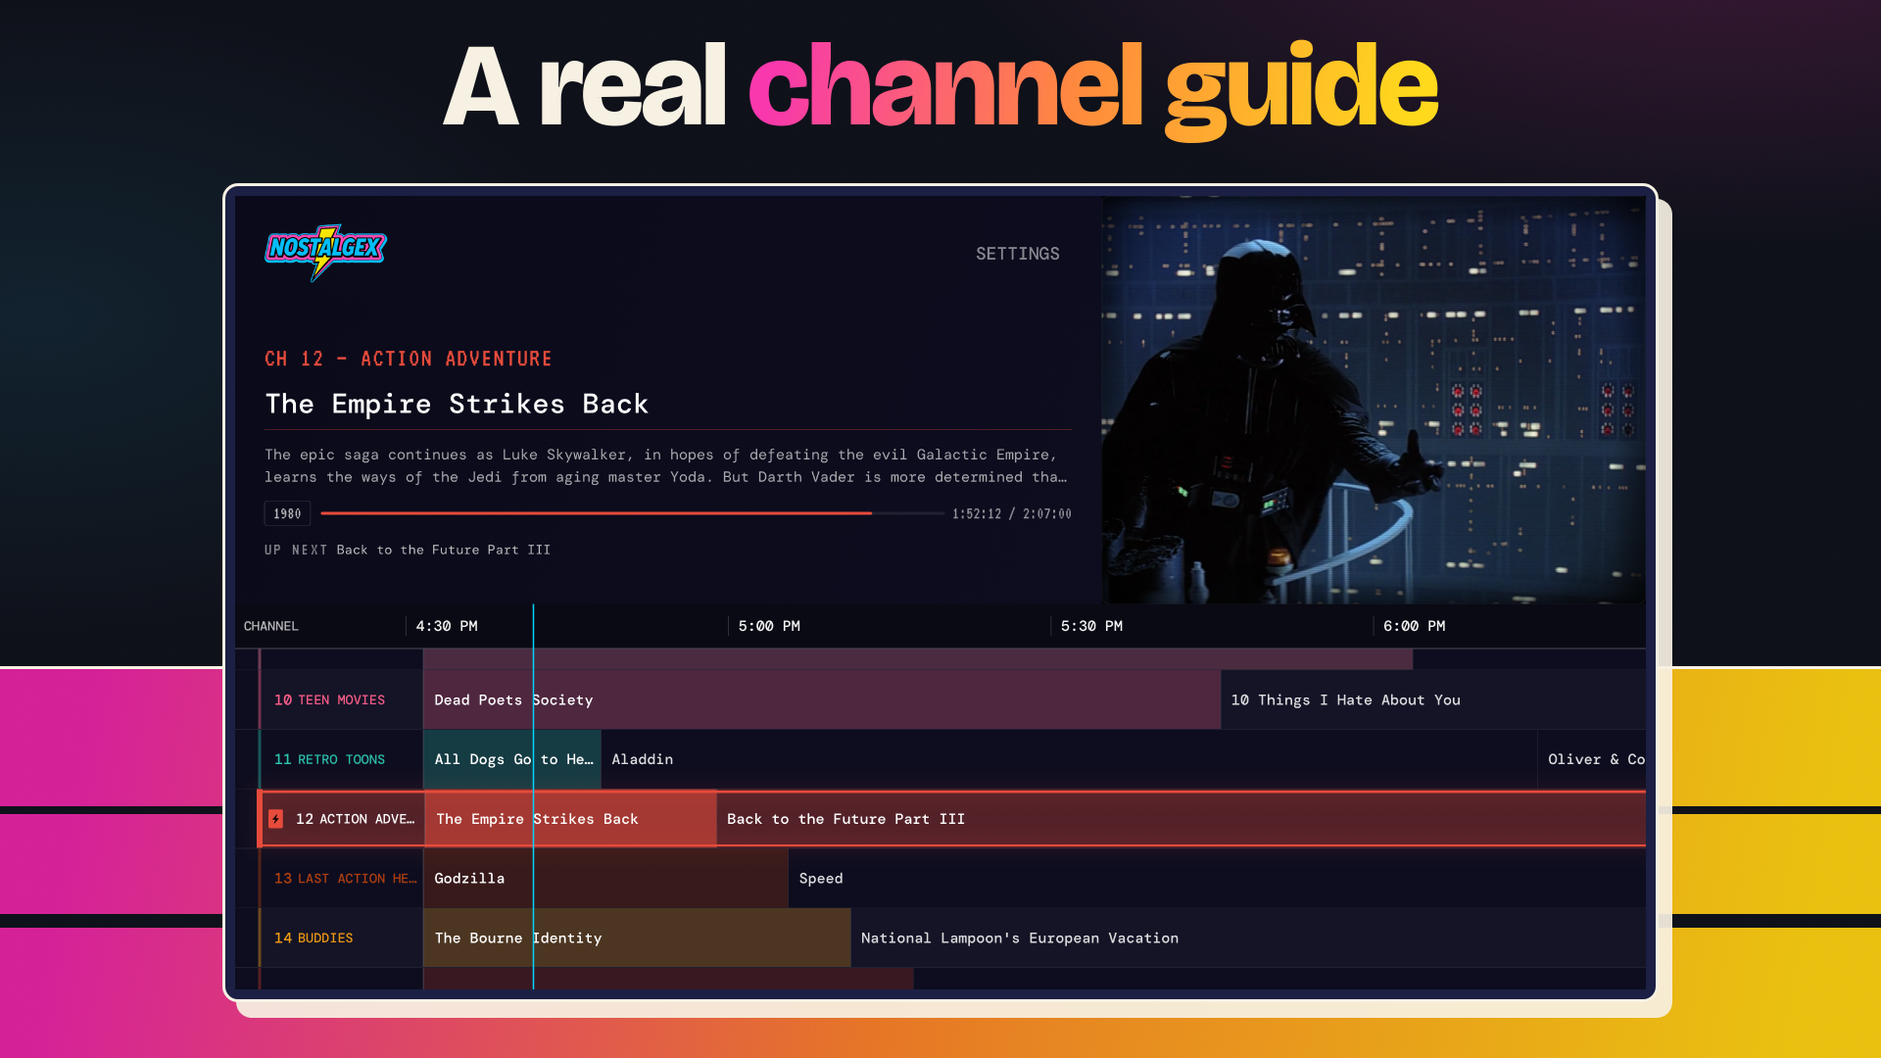
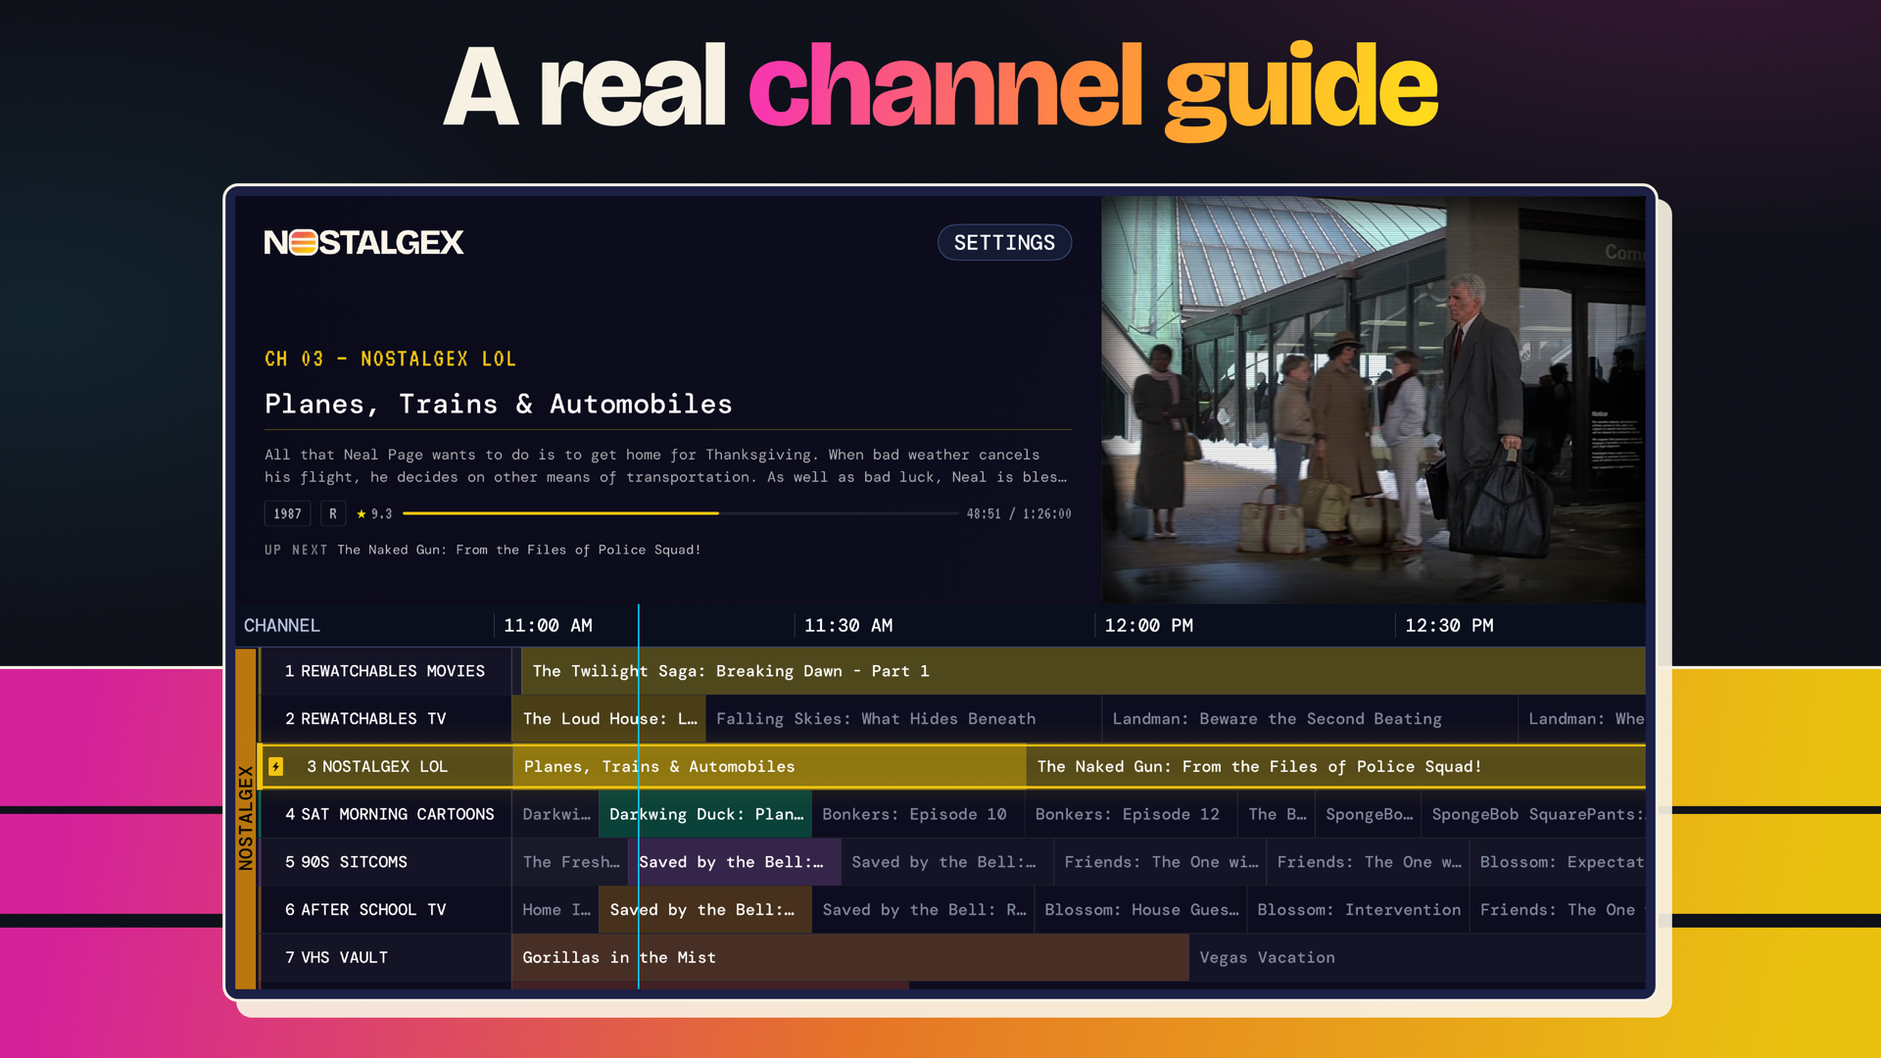
Site: new branding for the 1.0.32 release. New composites in the Apple TV, Plex, Jellyfin and Emby pages, README image, new OG image and email wordmark, old bolt assets gone (hero film and blog images pending)

diff --git a/index.html b/index.html
@@ -16,7 +16,7 @@
 <meta property="og:type" content="website">
 <meta property="og:url" content="https://www.nostalgex.app/">
 <meta property="og:site_name" content="Nostalgex">
-<meta property="og:image" content="https://www.nostalgex.app/og-image-1200.png">
+<meta property="og:image" content="https://www.nostalgex.app/og-site-1200.png">
 <meta property="og:image:width" content="1200">
 <meta property="og:image:height" content="630">
 <meta property="og:image:alt" content="The Nostalgex channel guide: a grid of live channels built from your own library">
@@ -25,7 +25,7 @@
 <meta name="twitter:card" content="summary_large_image">
 <meta name="twitter:title" content="Nostalgex for Apple TV: Live Channels for Plex, Jellyfin, Emby">
 <meta name="twitter:description" content="Turn your Plex, Jellyfin or Emby library into 130+ live channels with a retro TV guide. Free and open source on Apple TV and Roku, plus a free web tuner.">
-<meta name="twitter:image" content="https://www.nostalgex.app/og-image-1200.png">
+<meta name="twitter:image" content="https://www.nostalgex.app/og-site-1200.png">
 
 <script>
   /* Theme boot — runs before first paint so there's no flash on reload.
@@ -94,7 +94,7 @@
       "applicationCategory": "MultimediaApplication",
       "operatingSystem": "tvOS 18.0 or later",
       "description": "A free, open source Apple TV app that turns your Plex, Jellyfin or Emby library into 130+ live channels in 14 bundles, with a retro TV guide.",
-      "image": "https://www.nostalgex.app/og-image-1200.png",
+      "image": "https://www.nostalgex.app/og-site-1200.png",
       "downloadUrl": "https://apps.apple.com/app/nostalgex/id6762563534",
       "installUrl": "https://apps.apple.com/app/nostalgex/id6762563534",
       "isAccessibleForFree": true,
@@ -408,7 +408,7 @@
             </ul>
           </div>
           <figure class="shot shot-flat reveal delay-1">
-            <img src="/screens/lineup-1920.webp" srcset="/screens/lineup-1280.webp 1280w, /screens/lineup-1920.webp 1920w, /screens/lineup.webp 3840w" sizes="(min-width: 1100px) 640px, 92vw" alt="The Nostalgex guide grid: The Brave Little Toaster airing on Action Adventure, with Retro Toons, Teen Movies, and Family Hour in the lineup" width="3840" height="2160" loading="lazy" decoding="async">
+            <img src="/screens/atv-01-1920.webp" srcset="/screens/atv-01-1280.webp 1280w, /screens/atv-01-1920.webp 1920w, /screens/atv-01.webp 3840w" sizes="(min-width: 1100px) 640px, 92vw" alt="The Nostalgex channel guide on Apple TV: a grid of channels with what is on now and what is next, and a bundle stripe down the left edge" width="3840" height="2160" loading="lazy" decoding="async">
           </figure>
         </div>
       </div>
@@ -756,7 +756,7 @@
         <div class="surf-grid">
           <figure class="shot shot-tilt-l reveal">
             <span class="sticker sticker-pink" aria-hidden="true">FLIP IT</span>
-            <img src="/screens/player-1920.webp" srcset="/screens/player-1280.webp 1280w, /screens/player-1920.webp 1920w, /screens/player.webp 3840w" sizes="(min-width: 1100px) 640px, 92vw" alt="Watching Black Sheep fullscreen in Nostalgex, flipping through channels with the on-screen channel row" width="3840" height="2160" loading="lazy" decoding="async">
+            <img src="/screens/atv-04-1920.webp" srcset="/screens/atv-04-1280.webp 1280w, /screens/atv-04-1920.webp 1920w, /screens/atv-04.webp 3840w" sizes="(min-width: 1100px) 640px, 92vw" alt="Tuning in to a movie already in progress on Apple TV, with the channel and title in the corner like cable TV" width="3840" height="2160" loading="lazy" decoding="async">
           </figure>
           <div class="surf-copy reveal delay-1">
             <h2>Flip up. Flip down. Land on something great.</h2>

diff --git a/apple-tv.html b/apple-tv.html
@@ -16,7 +16,7 @@
 <meta property="og:type" content="website">
 <meta property="og:url" content="https://www.nostalgex.app/apple-tv">
 <meta property="og:site_name" content="Nostalgex">
-<meta property="og:image" content="https://www.nostalgex.app/og-image-1200.png">
+<meta property="og:image" content="https://www.nostalgex.app/og-site-1200.png">
 <meta property="og:image:width" content="1200">
 <meta property="og:image:height" content="630">
 <meta property="og:image:alt" content="The Nostalgex channel guide: a grid of live channels built from your own library">
@@ -25,7 +25,7 @@
 <meta name="twitter:card" content="summary_large_image">
 <meta name="twitter:title" content="Nostalgex for Apple TV | Retro channel guide for Plex, Jellyfin and Emby">
 <meta name="twitter:description" content="Turn your Plex, Jellyfin or Emby library into 130+ retro TV channels on Apple TV. Sign in and start flipping. Free on the App Store.">
-<meta name="twitter:image" content="https://www.nostalgex.app/og-image-1200.png">
+<meta name="twitter:image" content="https://www.nostalgex.app/og-site-1200.png">
 
 <script>
   /* Theme boot, runs before first paint so there's no flash on reload. */
@@ -311,7 +311,7 @@
           </div>
           <div class="reveal delay-1">
             <figure class="shot shot-tilt-l">
-              <img src="/screens/player-1920.webp" srcset="/screens/player-1280.webp 1280w, /screens/player-1920.webp 1920w, /screens/player.webp 3840w" sizes="(min-width: 1100px) 640px, 92vw" alt="Watching Black Sheep full screen in Nostalgex on Apple TV, with the channel strip along the bottom" width="3840" height="2160" loading="lazy" decoding="async">
+              <img src="/screens/atv-04-1920.webp" srcset="/screens/atv-04-1280.webp 1280w, /screens/atv-04-1920.webp 1920w, /screens/atv-04.webp 3840w" sizes="(min-width: 1100px) 640px, 92vw" alt="Tuning in to a movie already in progress on Apple TV, with the channel and title in the corner like cable TV" width="3840" height="2160" loading="lazy" decoding="async">
             </figure>
           </div>
         </div>
@@ -331,7 +331,7 @@
           </div>
           <div class="reveal delay-1">
             <figure class="shot shot-tilt-r">
-              <img src="/screens/lineup-1920.webp" srcset="/screens/lineup-1280.webp 1280w, /screens/lineup-1920.webp 1920w, /screens/lineup.webp 3840w" sizes="(min-width: 1100px) 560px, 92vw" alt="The Nostalgex guide on Apple TV: The Empire Strikes Back airing on ACTION ADVENTURE, with TEEN MOVIES, RETRO TOONS and LAST ACTION HEROES in the lineup" width="3840" height="2160" loading="lazy" decoding="async">
+              <img src="/screens/atv-02-1920.webp" srcset="/screens/atv-02-1280.webp 1280w, /screens/atv-02-1920.webp 1920w, /screens/atv-02.webp 3840w" sizes="(min-width: 1100px) 560px, 92vw" alt="The Nostalgex guide on Apple TV with a fresh lineup across Saturday morning cartoons, 90s sitcoms and after school TV" width="3840" height="2160" loading="lazy" decoding="async">
             </figure>
           </div>
         </div>

diff --git a/jellyfin.html b/jellyfin.html
@@ -16,7 +16,7 @@
 <meta property="og:type" content="website">
 <meta property="og:url" content="https://www.nostalgex.app/jellyfin">
 <meta property="og:site_name" content="Nostalgex">
-<meta property="og:image" content="https://www.nostalgex.app/og-image-1200.png">
+<meta property="og:image" content="https://www.nostalgex.app/og-site-1200.png">
 <meta property="og:image:width" content="1200">
 <meta property="og:image:height" content="630">
 <meta property="og:image:alt" content="The Nostalgex channel guide: a grid of live channels built from your own library">
@@ -25,7 +25,7 @@
 <meta name="twitter:card" content="summary_large_image">
 <meta name="twitter:title" content="Nostalgex for Jellyfin: Live TV Channels on Apple TV">
 <meta name="twitter:description" content="Turn your Jellyfin library into 130+ live channels with a retro TV guide on Apple TV. Sign in with Quick Connect. Free and open source, nothing to install.">
-<meta name="twitter:image" content="https://www.nostalgex.app/og-image-1200.png">
+<meta name="twitter:image" content="https://www.nostalgex.app/og-site-1200.png">
 
 <script>
   /* Theme boot, runs before first paint so there's no flash on reload. */
@@ -100,7 +100,7 @@
       "applicationCategory": "MultimediaApplication",
       "operatingSystem": "tvOS 18.0 or later",
       "description": "A free, open source Apple TV app that turns your Plex, Jellyfin or Emby library into 130+ live channels in 14 bundles, with a retro TV guide.",
-      "image": "https://www.nostalgex.app/og-image-1200.png",
+      "image": "https://www.nostalgex.app/og-site-1200.png",
       "downloadUrl": "https://apps.apple.com/app/nostalgex/id6762563534",
       "installUrl": "https://apps.apple.com/app/nostalgex/id6762563534",
       "isAccessibleForFree": true,
@@ -378,7 +378,7 @@
           </div>
           <div class="reveal delay-1">
             <figure class="shot shot-tilt-l">
-              <img src="/screens/guide-1920.webp" srcset="/screens/guide-1280.webp 1280w, /screens/guide-1920.webp 1920w, /screens/guide.webp 3840w" sizes="(min-width: 1100px) 640px, 92vw" alt="A full Nostalgex channel guide with a grid of channels and what is airing on each" width="3840" height="2160" loading="lazy" decoding="async">
+              <img src="/screens/atv-03-1920.webp" srcset="/screens/atv-03-1280.webp 1280w, /screens/atv-03-1920.webp 1920w, /screens/atv-03.webp 3840w" sizes="(min-width: 1100px) 640px, 92vw" alt="The Nostalgex guide on Apple TV, the same channel lineup built from a Plex, Jellyfin or Emby library" width="3840" height="2160" loading="lazy" decoding="async">
             </figure>
           </div>
         </div>

diff --git a/plex.html b/plex.html
@@ -16,7 +16,7 @@
 <meta property="og:type" content="website">
 <meta property="og:url" content="https://www.nostalgex.app/plex">
 <meta property="og:site_name" content="Nostalgex">
-<meta property="og:image" content="https://www.nostalgex.app/og-image-1200.png">
+<meta property="og:image" content="https://www.nostalgex.app/og-site-1200.png">
 <meta property="og:image:width" content="1200">
 <meta property="og:image:height" content="630">
 <meta property="og:image:alt" content="The Nostalgex channel guide: a grid of live channels built from your own library">
@@ -25,7 +25,7 @@
 <meta name="twitter:card" content="summary_large_image">
 <meta name="twitter:title" content="Nostalgex for Plex: Live TV Channels on Apple TV">
 <meta name="twitter:description" content="Turn your Plex library into 130+ live channels with a retro TV guide on Apple TV. Sign in with a code at plex.tv/link. Free, open source, no Plex Pass.">
-<meta name="twitter:image" content="https://www.nostalgex.app/og-image-1200.png">
+<meta name="twitter:image" content="https://www.nostalgex.app/og-site-1200.png">
 
 <script>
   /* Theme boot, runs before first paint so there's no flash on reload. */
@@ -100,7 +100,7 @@
       "applicationCategory": "MultimediaApplication",
       "operatingSystem": "tvOS 18.0 or later",
       "description": "A free, open source Apple TV app that turns your Plex, Jellyfin or Emby library into 130+ live channels in 14 bundles, with a retro TV guide.",
-      "image": "https://www.nostalgex.app/og-image-1200.png",
+      "image": "https://www.nostalgex.app/og-site-1200.png",
       "downloadUrl": "https://apps.apple.com/app/nostalgex/id6762563534",
       "installUrl": "https://apps.apple.com/app/nostalgex/id6762563534",
       "isAccessibleForFree": true,
@@ -378,7 +378,7 @@
           </div>
           <div class="reveal delay-1">
             <figure class="shot shot-tilt-l">
-              <img src="/screens/guide-1920.webp" srcset="/screens/guide-1280.webp 1280w, /screens/guide-1920.webp 1920w, /screens/guide.webp 3840w" sizes="(min-width: 1100px) 640px, 92vw" alt="A full Nostalgex channel guide with a grid of channels and what is airing on each" width="3840" height="2160" loading="lazy" decoding="async">
+              <img src="/screens/atv-03-1920.webp" srcset="/screens/atv-03-1280.webp 1280w, /screens/atv-03-1920.webp 1920w, /screens/atv-03.webp 3840w" sizes="(min-width: 1100px) 640px, 92vw" alt="The Nostalgex guide on Apple TV, the same channel lineup built from a Plex, Jellyfin or Emby library" width="3840" height="2160" loading="lazy" decoding="async">
             </figure>
           </div>
         </div>

diff --git a/emby.html b/emby.html
@@ -16,7 +16,7 @@
 <meta property="og:type" content="website">
 <meta property="og:url" content="https://www.nostalgex.app/emby">
 <meta property="og:site_name" content="Nostalgex">
-<meta property="og:image" content="https://www.nostalgex.app/og-image-1200.png">
+<meta property="og:image" content="https://www.nostalgex.app/og-site-1200.png">
 <meta property="og:image:width" content="1200">
 <meta property="og:image:height" content="630">
 <meta property="og:image:alt" content="The Nostalgex channel guide: a grid of live channels built from your own library">
@@ -25,7 +25,7 @@
 <meta name="twitter:card" content="summary_large_image">
 <meta name="twitter:title" content="Nostalgex for Emby: Live TV Channels on Apple TV">
 <meta name="twitter:description" content="Turn your Emby library into 130+ live channels with a retro TV guide on Apple TV. Sign in with your Emby username and password. Free and open source.">
-<meta name="twitter:image" content="https://www.nostalgex.app/og-image-1200.png">
+<meta name="twitter:image" content="https://www.nostalgex.app/og-site-1200.png">
 
 <script>
   /* Theme boot, runs before first paint so there's no flash on reload. */
@@ -100,7 +100,7 @@
       "applicationCategory": "MultimediaApplication",
       "operatingSystem": "tvOS 18.0 or later",
       "description": "A free, open source Apple TV app that turns your Plex, Jellyfin or Emby library into 130+ live channels in 14 bundles, with a retro TV guide.",
-      "image": "https://www.nostalgex.app/og-image-1200.png",
+      "image": "https://www.nostalgex.app/og-site-1200.png",
       "downloadUrl": "https://apps.apple.com/app/nostalgex/id6762563534",
       "installUrl": "https://apps.apple.com/app/nostalgex/id6762563534",
       "isAccessibleForFree": true,
@@ -378,7 +378,7 @@
           </div>
           <div class="reveal delay-1">
             <figure class="shot shot-tilt-l">
-              <img src="/screens/guide-1920.webp" srcset="/screens/guide-1280.webp 1280w, /screens/guide-1920.webp 1920w, /screens/guide.webp 3840w" sizes="(min-width: 1100px) 640px, 92vw" alt="A full Nostalgex channel guide with a grid of channels and what is airing on each" width="3840" height="2160" loading="lazy" decoding="async">
+              <img src="/screens/atv-03-1920.webp" srcset="/screens/atv-03-1280.webp 1280w, /screens/atv-03-1920.webp 1920w, /screens/atv-03.webp 3840w" sizes="(min-width: 1100px) 640px, 92vw" alt="The Nostalgex guide on Apple TV, the same channel lineup built from a Plex, Jellyfin or Emby library" width="3840" height="2160" loading="lazy" decoding="async">
             </figure>
           </div>
         </div>

diff --git a/self-host.html b/self-host.html
@@ -18,7 +18,7 @@
 <meta property="og:type" content="website">
 <meta property="og:url" content="https://www.nostalgex.app/self-host">
 <meta property="og:site_name" content="Nostalgex">
-<meta property="og:image" content="https://www.nostalgex.app/og-image-1200.png">
+<meta property="og:image" content="https://www.nostalgex.app/og-site-1200.png">
 <meta property="og:image:width" content="1200">
 <meta property="og:image:height" content="630">
 <meta property="og:image:alt" content="The Nostalgex channel guide: a grid of live channels built from your own library">
@@ -27,7 +27,7 @@
 <meta name="twitter:card" content="summary_large_image">
 <meta name="twitter:title" content="Self-Host Nostalgex: Retro TV Guide for Plex, Jellyfin and Emby in Docker">
 <meta name="twitter:description" content="Run the Nostalgex web tuner as a Docker container next to your own Plex, Jellyfin or Emby server. Plain http on your network, so a browser can finally reach a local Jellyfin or Emby box.">
-<meta name="twitter:image" content="https://www.nostalgex.app/og-image-1200.png">
+<meta name="twitter:image" content="https://www.nostalgex.app/og-site-1200.png">
 
 <script>
   /* Analytics loads after the page has, so a slow third party never holds up the load event. */

diff --git a/support.html b/support.html
@@ -16,7 +16,7 @@
 <meta property="og:type" content="website">
 <meta property="og:url" content="https://www.nostalgex.app/support">
 <meta property="og:site_name" content="Nostalgex">
-<meta property="og:image" content="https://www.nostalgex.app/og-image-1200.png">
+<meta property="og:image" content="https://www.nostalgex.app/og-site-1200.png">
 <meta property="og:image:width" content="1200">
 <meta property="og:image:height" content="630">
 <meta property="og:image:alt" content="The Nostalgex channel guide: a grid of live channels built from your own library">
@@ -25,7 +25,7 @@
 <meta name="twitter:card" content="summary_large_image">
 <meta name="twitter:title" content="Nostalgex Support: Setup, Channels and Troubleshooting">
 <meta name="twitter:description" content="How to connect Plex, Jellyfin or Emby to Nostalgex, fix https and CORS errors in the web tuner, and get the right movies onto the right channels.">
-<meta name="twitter:image" content="https://www.nostalgex.app/og-image-1200.png">
+<meta name="twitter:image" content="https://www.nostalgex.app/og-site-1200.png">
 
 <script>
   /* Analytics loads after the page has, so a slow third party never holds up the load event. */

diff --git a/how-channels-work.html b/how-channels-work.html
@@ -16,7 +16,7 @@
 <meta property="og:type" content="article">
 <meta property="og:url" content="https://www.nostalgex.app/how-channels-work">
 <meta property="og:site_name" content="Nostalgex">
-<meta property="og:image" content="https://www.nostalgex.app/og-image-1200.png">
+<meta property="og:image" content="https://www.nostalgex.app/og-site-1200.png">
 <meta property="og:image:width" content="1200">
 <meta property="og:image:height" content="630">
 <meta property="og:image:alt" content="The Nostalgex channel guide: a grid of live channels built from your own library">
@@ -25,7 +25,7 @@
 <meta name="twitter:card" content="summary_large_image">
 <meta name="twitter:title" content="How Nostalgex Sorts Your Library Into Channels">
 <meta name="twitter:description" content="How Nostalgex decides which movies and shows land on which channel, and what to fix on your Plex, Jellyfin or Emby server when one is missing.">
-<meta name="twitter:image" content="https://www.nostalgex.app/og-image-1200.png">
+<meta name="twitter:image" content="https://www.nostalgex.app/og-site-1200.png">
 
 <script>
   /* Analytics loads after the page has, so a slow third party never holds up the load event. */

diff --git a/privacy.html b/privacy.html
@@ -16,7 +16,7 @@
 <meta property="og:type" content="website">
 <meta property="og:url" content="https://www.nostalgex.app/privacy">
 <meta property="og:site_name" content="Nostalgex">
-<meta property="og:image" content="https://www.nostalgex.app/og-image-1200.png">
+<meta property="og:image" content="https://www.nostalgex.app/og-site-1200.png">
 <meta property="og:image:width" content="1200">
 <meta property="og:image:height" content="630">
 <meta property="og:image:alt" content="The Nostalgex channel guide: a grid of live channels built from your own library">
@@ -25,7 +25,7 @@
 <meta name="twitter:card" content="summary_large_image">
 <meta name="twitter:title" content="Privacy Policy | Nostalgex">
 <meta name="twitter:description" content="What the Nostalgex Apple TV app and website collect, what they never collect, and where your data goes. Plain language, no account.">
-<meta name="twitter:image" content="https://www.nostalgex.app/og-image-1200.png">
+<meta name="twitter:image" content="https://www.nostalgex.app/og-site-1200.png">
 
 <script type="application/ld+json">
 {

diff --git a/terms.html b/terms.html
@@ -16,7 +16,7 @@
 <meta property="og:type" content="website">
 <meta property="og:url" content="https://www.nostalgex.app/terms">
 <meta property="og:site_name" content="Nostalgex">
-<meta property="og:image" content="https://www.nostalgex.app/og-image-1200.png">
+<meta property="og:image" content="https://www.nostalgex.app/og-site-1200.png">
 <meta property="og:image:width" content="1200">
 <meta property="og:image:height" content="630">
 <meta property="og:image:alt" content="The Nostalgex channel guide: a grid of live channels built from your own library">
@@ -25,7 +25,7 @@
 <meta name="twitter:card" content="summary_large_image">
 <meta name="twitter:title" content="Terms of Use | Nostalgex">
 <meta name="twitter:description" content="The terms for using Nostalgex on Apple TV, on Roku, in the web tuner and as a self-hosted container. Plain language, short.">
-<meta name="twitter:image" content="https://www.nostalgex.app/og-image-1200.png">
+<meta name="twitter:image" content="https://www.nostalgex.app/og-site-1200.png">
 
 <script type="application/ld+json">
 {

diff --git a/README.md b/README.md
@@ -8,7 +8,7 @@
 [![Web tuner](https://img.shields.io/badge/Web%20tuner-open%20in%20browser-orange)](https://www.nostalgex.app/web-tuner)
 [![Docker](https://img.shields.io/badge/Docker-ghcr.io%2Fchadmueller%2Fnostalgex-2496ED?logo=docker&logoColor=white)](https://github.com/chadMueller/Nostalgex/pkgs/container/nostalgex)
 
-![The Nostalgex channel guide on Apple TV, with CH 12 Action Adventure playing The Empire Strikes Back and a grid of channels and showtimes below](docs/images/nostalgex-guide.png)
+![The Nostalgex channel guide on Apple TV: a grid of channels with what is on now and what is next, and a bundle stripe down the left edge](docs/images/nostalgex-guide.png)
 
 Nostalgex turns your library into 130+ channels in 14 bundles, plus a channel for every film series you own, with a real channel guide. Every channel plays on a set daily schedule, so tuning in feels like live TV. No account to make, and it never supplies any media of its own.
 
